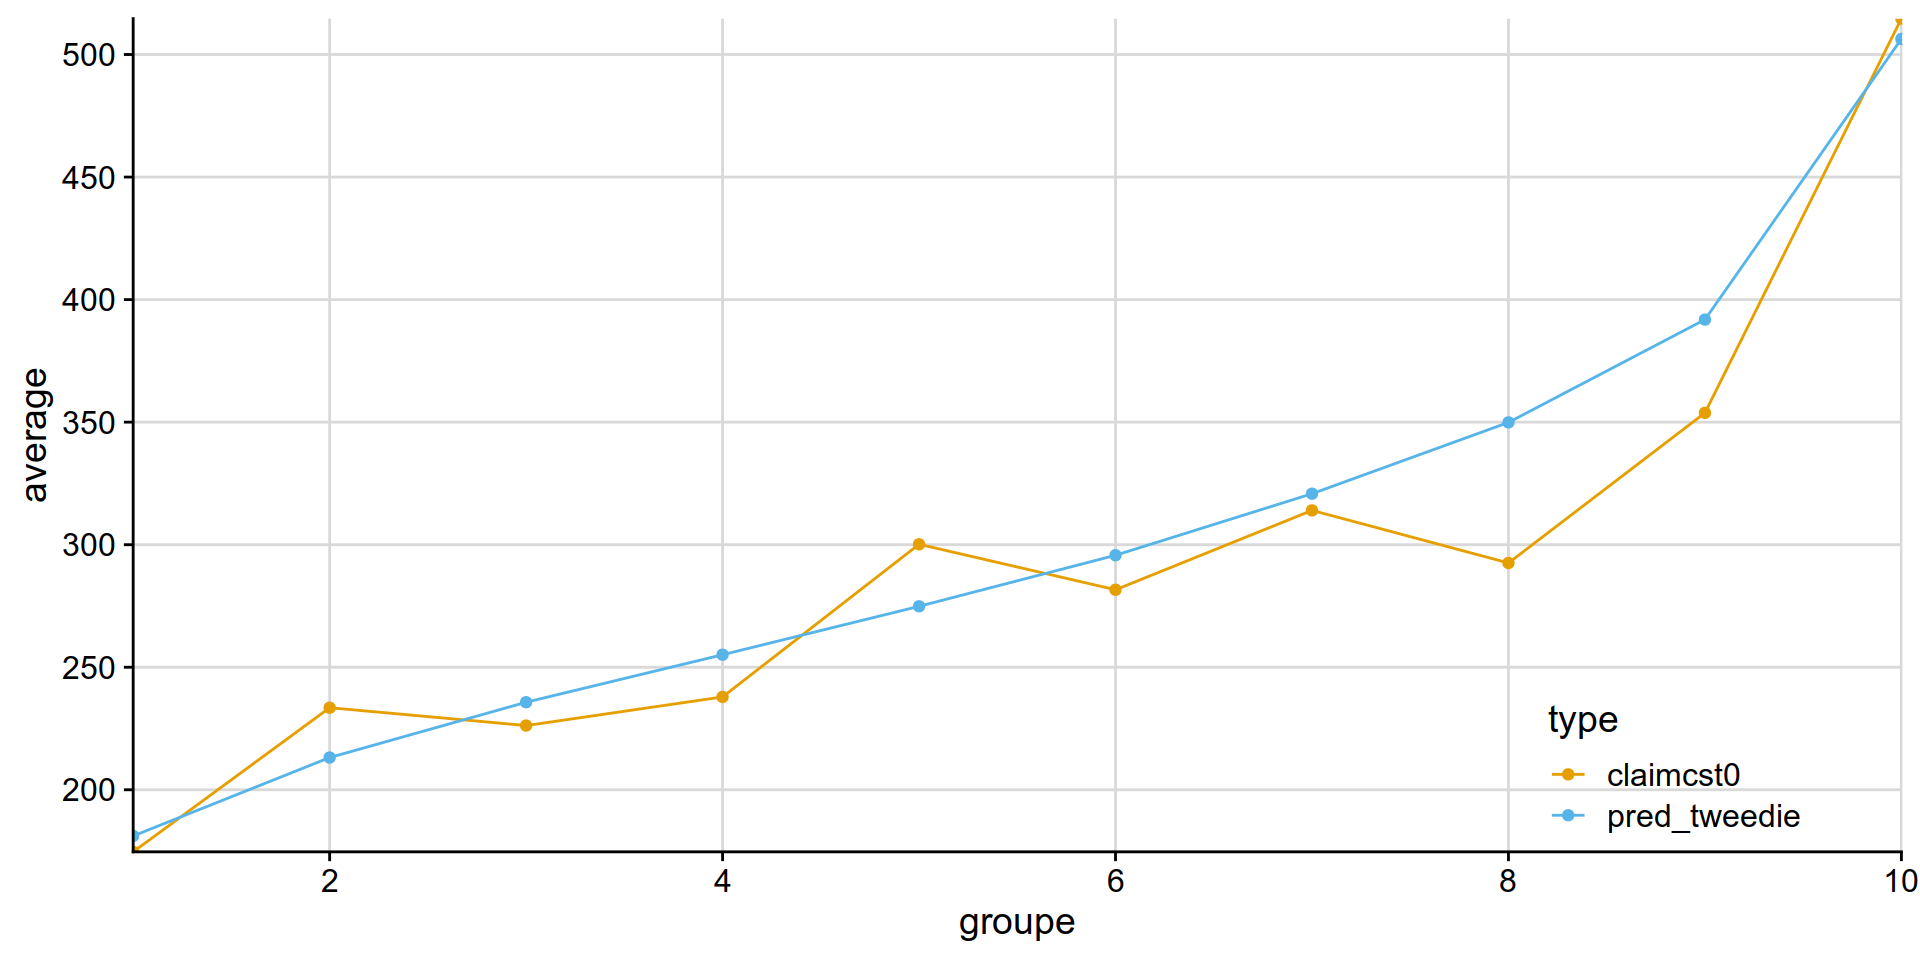
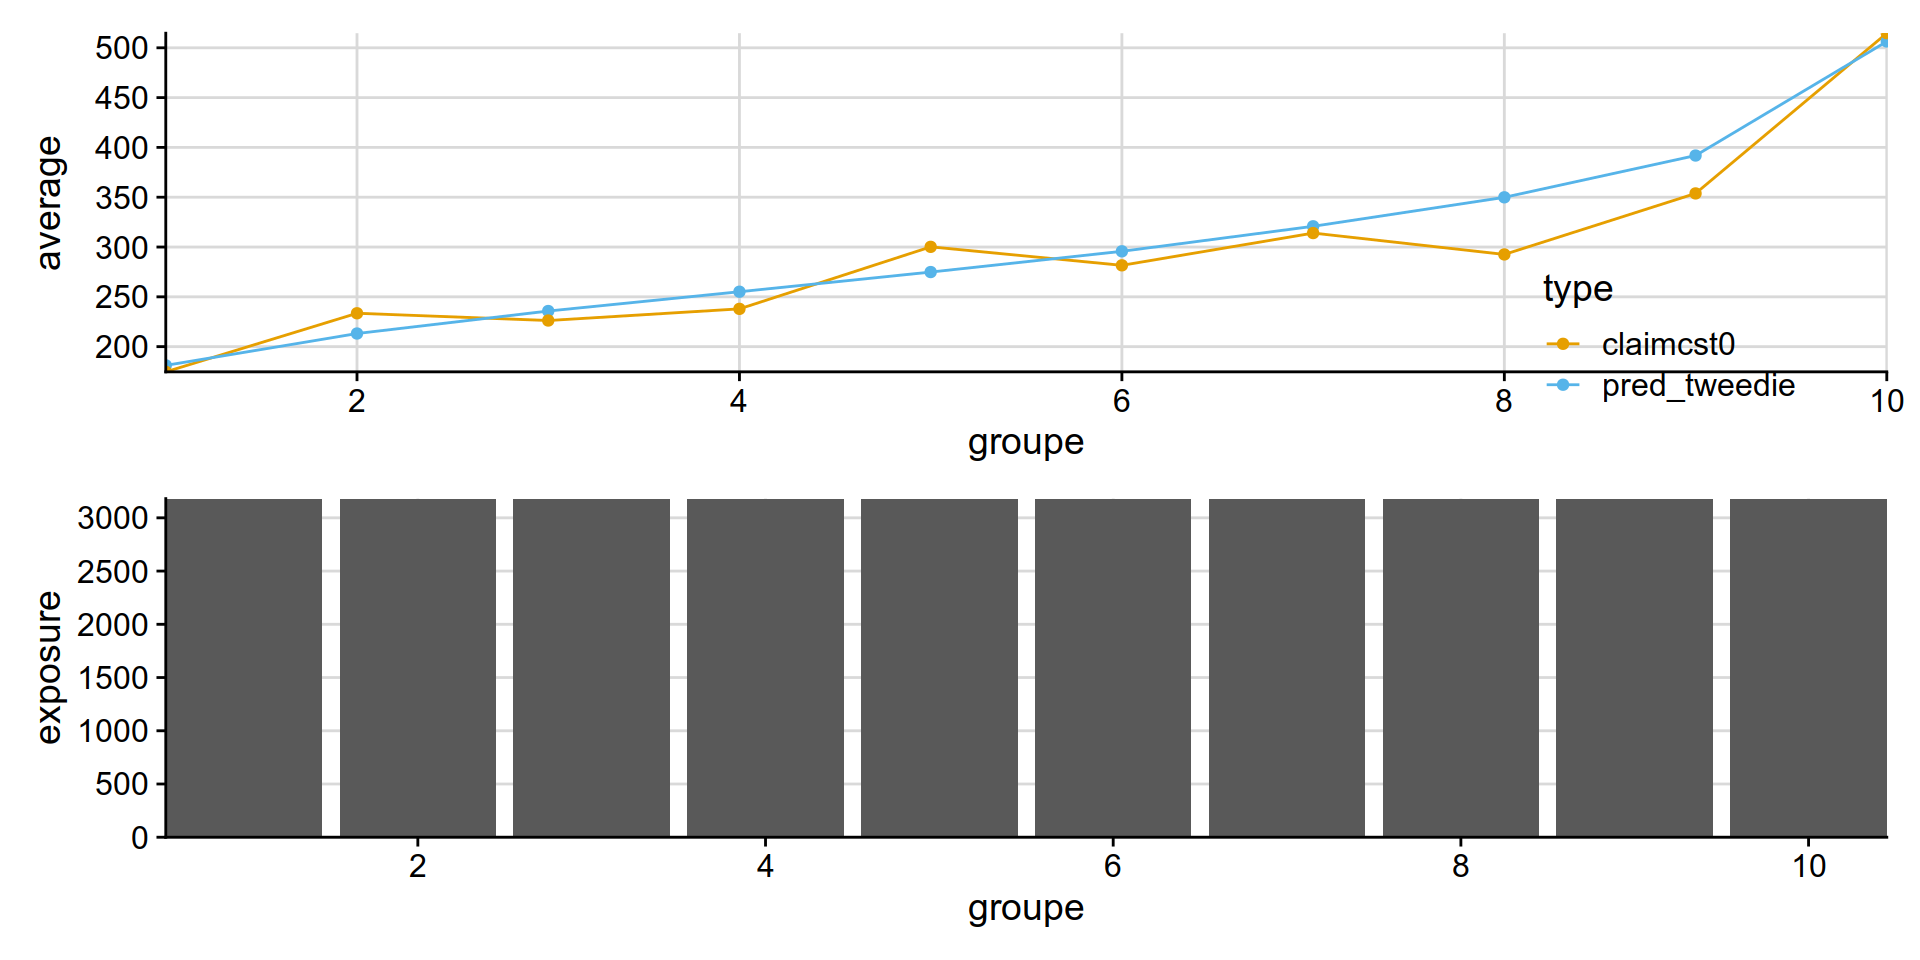
lift chart a les exposures alignés

diff --git a/content/post/2020-03-23-tweedie-vs-poisson-gamma.html b/content/post/2020-03-23-tweedie-vs-poisson-gamma.html
@@ -27,7 +27,7 @@ library(xgboost)
 library(tictoc)
 library(dviz.supp) # devtools::install_github(&quot;clauswilke/dviz.supp&quot;)
 library(colorblindr)  # devtools::install_github(&quot;clauswilke/colorblindr&quot;)
-
+library(patchwork)
 data(dataCar)
 
 # claimcst0claim amount (0 if no claim)
@@ -209,6 +209,8 @@ summary(gamma_fit)</code></pre>
 offset_var &lt;- &quot;exposure&quot;</code></pre>
 <div id="xgboost-tweedie" class="section level2">
 <h2>xgboost tweedie</h2>
+<p>pdf le fun avec weight et tou
+<a href="https://pdfs.semanticscholar.org/c93b/36764413698a1f39f27969c5815363497370.pdf" class="uri">https://pdfs.semanticscholar.org/c93b/36764413698a1f39f27969c5815363497370.pdf</a></p>
 <pre class="r"><code>label_var &lt;- &quot;claimcst0&quot; 
 
 # one hot encoding of categorical (factor) data
@@ -649,13 +651,17 @@ add_equal_weight_group &lt;- function(table, sort_by, expo = NULL, group_variabl
   
   # comparaison sur ces buckets
   dd &lt;- full_join(
-    dd %&gt;% group_by(groupe) %&gt;%
+    dd %&gt;% 
+      group_by(groupe) %&gt;%
       summarise(
+        exposure = sum(!!expo_var),
         sort_by_moyen = mean(!!sort_by_var),
         sort_by_min = min(!!sort_by_var),
         sort_by_max = max(!!sort_by_var)
-      ),
-    dd %&gt;% group_by(groupe) %&gt;%
+      ) %&gt;%
+      ungroup(),
+    dd %&gt;% 
+      group_by(groupe) %&gt;%
       summarise_at(
         funs(sum(.) / sum(!!expo_var)),
         .vars = vars(!!obs_var, !!pred_var)
@@ -689,7 +695,7 @@ add_equal_weight_group &lt;- function(table, sort_by, expo = NULL, group_variabl
     obs = !!obs_var, 
     nb = 10)
   
-  lift_data %&gt;% 
+p1 &lt;- lift_data %&gt;% 
     select(groupe, labs, !!pred_var, !!obs_var) %&gt;%
     gather(key = type, value = average, !!pred_var, !!obs_var)  %&gt;% 
     ggplot(aes(x= groupe, y = average, color =type)) +
@@ -709,7 +715,25 @@ add_equal_weight_group &lt;- function(table, sort_by, expo = NULL, group_variabl
     theme(legend.position = c(0.8, 0.1)
     )
   
-  
+p2 &lt;- lift_data %&gt;% 
+    select(groupe, labs, exposure) %&gt;%
+    ggplot(aes(x= groupe, y = exposure)) +
+    geom_col() +
+    cowplot::theme_half_open() +
+    cowplot::background_grid() +
+    colorblindr::scale_color_OkabeIto( ) + 
+    scale_x_continuous(
+      expand = c(0,0),
+      breaks  = scales::pretty_breaks()
+    )+
+    scale_y_continuous(
+      expand = c(0,0),
+      breaks  = scales::pretty_breaks()
+    )+
+    theme(legend.position = c(0.8, 0.1)
+    )  
+
+return(p1 / p2)
 }</code></pre>
 <p>Add predictions to database. Quick check: the means for predictions of frequency and total cost don’t appear to be way off:</p>
 <pre class="r"><code>z &lt;- mydb %&gt;%
@@ -763,10 +787,9 @@ z %&gt;% select(clm, pred_poisson, pred_xgboost_poisson,  claimcst0,pred_freq_se
 <h1>Lift charts of select models</h1>
 <div id="lift-chart-poisson-frequence-annuelle" class="section level2">
 <h2>lift chart poisson (fréquence annuelle)</h2>
-<pre class="r"><code>z %&gt;% 
+<pre class="r"><code>gaa &lt;- z %&gt;% 
   mutate(annual_rate_pred_poisson = pred_poisson / exposure) %&gt;%
-  get_lift_chart(sort_by= annual_rate_pred_poisson, pred = pred_poisson, obs = clm, expo  = exposure )</code></pre>
-<p><img src="/post/2020-03-23-tweedie-vs-poisson-gamma_files/figure-html/unnamed-chunk-12-1.png" width="960" style="display: block; margin: auto;" /></p>
+  get_lift_chart_data(sort_by= annual_rate_pred_poisson, pred = pred_poisson, obs = clm, expo  = exposure )</code></pre>
 </div>
 <div id="lift-chart-tweedie-prime-annuelle" class="section level2">
 <h2>lift chart tweedie (prime annuelle)</h2>
